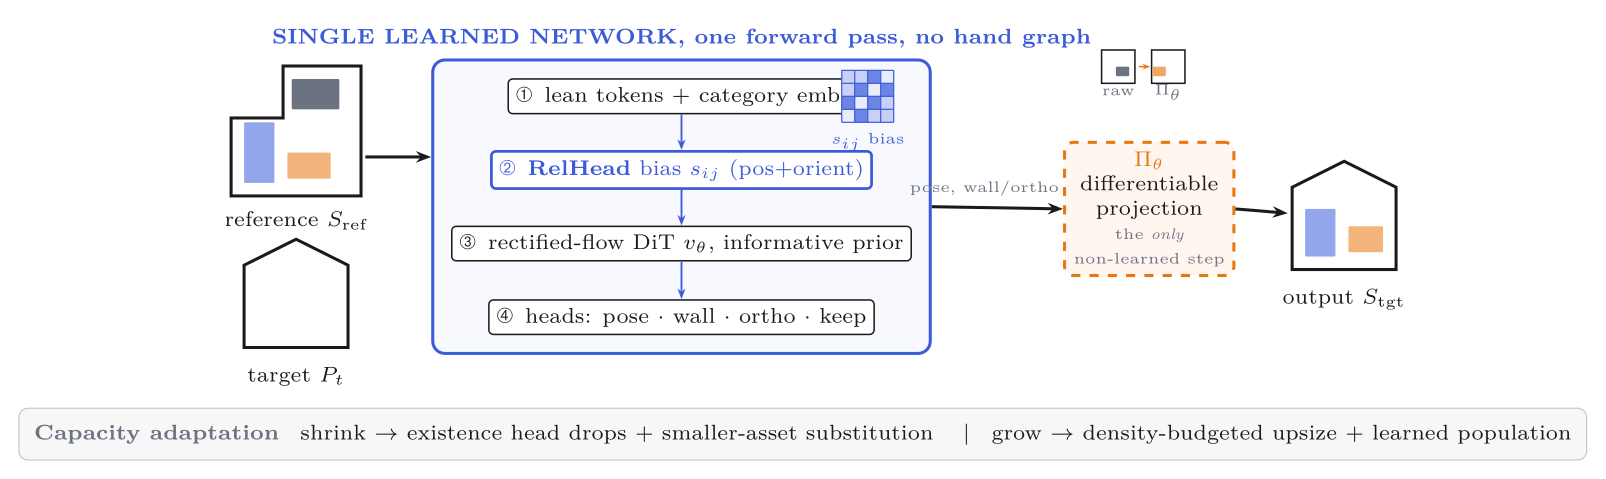
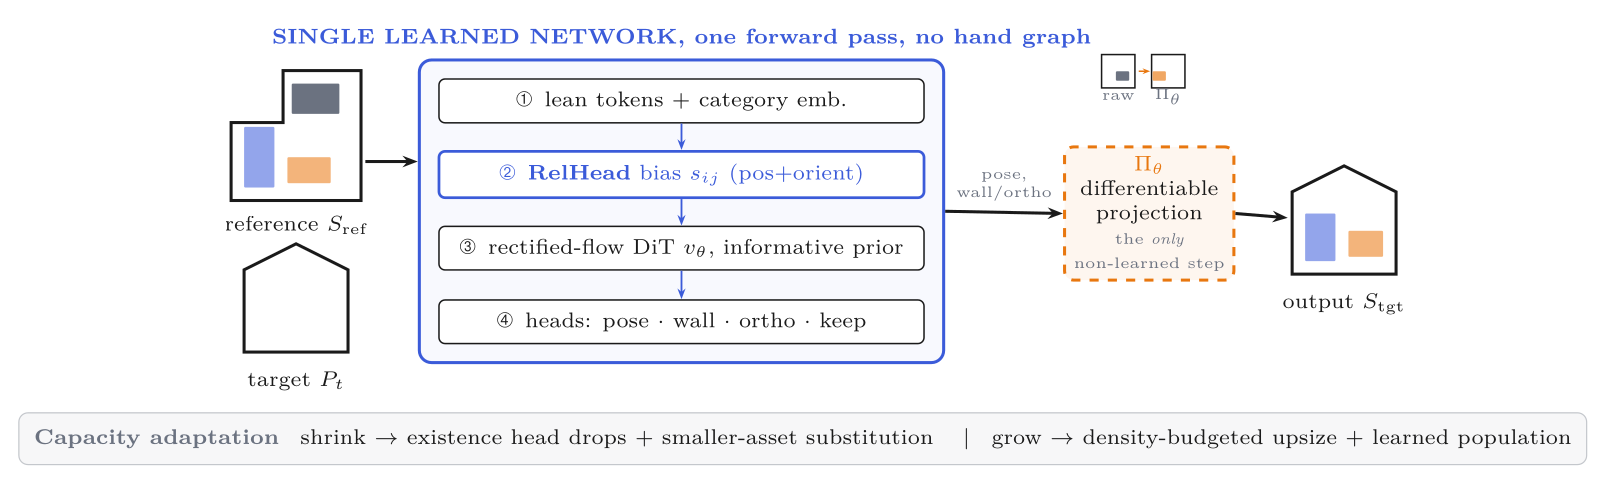
Fix overview figure text fit: uniform padded step boxes, no heatmap overlap
Give the four step boxes a uniform width and larger inner padding so no label
touches its box edge; remove the s_ij heatmap inset that was overrunning step 1's
text; stack the network->projection flow label onto two lines so it clears both
boxes. Regenerate the embedded PNG.

diff --git a/figures/fig_overview.tex b/figures/fig_overview.tex
@@ -9,7 +9,7 @@
 \tikzset{
   lbl/.style   ={font=\scriptsize,text=ink},
   slbl/.style  ={font=\tiny,text=mut},
-  stp/.style   ={draw=ink,line width=.5pt,rounded corners=1.5pt,fill=white,align=center,font=\scriptsize,inner sep=2.5pt,text=ink},
+  stp/.style   ={draw=ink,line width=.5pt,rounded corners=2pt,fill=white,align=center,font=\scriptsize,inner sep=4pt,text=ink,minimum width=56mm},
   netbox/.style={draw=net,line width=1pt,rounded corners=4pt,fill=net!4},
   prjbox/.style={draw=prj,line width=1pt,dashed,rounded corners=3pt,fill=prj!7,align=center,font=\scriptsize,text=ink,inner sep=3pt},
   main/.style  ={-{Stealth[length=5pt]},line width=1pt,ink},
@@ -27,21 +27,13 @@
 \node[lbl,below] at (0.75,-1.65) {target $P_t$};
 % 2. LEARNED NETWORK
 \def\nx{5.2}
-\node[stp,minimum width=30mm] (s1) at (\nx,1.35) {\ding{192}\, lean tokens $+$ category emb.};
-\node[stp,text=net,draw=net,line width=.9pt,minimum width=30mm] (s2) at (\nx,0.5) {\ding{193}\, \textbf{RelHead} bias $s_{ij}$ (pos$+$orient)};
-\node[stp,minimum width=30mm] (s3) at (\nx,-0.35) {\ding{194}\, rectified-flow DiT $v_\theta$, informative prior};
-\node[stp,minimum width=30mm] (s4) at (\nx,-1.2) {\ding{195}\, heads: pose $\cdot$ wall $\cdot$ ortho $\cdot$ keep};
+\node[stp] (s1) at (\nx,1.35) {\ding{192}\, lean tokens $+$ category emb.};
+\node[stp,text=net,draw=net,line width=.9pt] (s2) at (\nx,0.5) {\ding{193}\, \textbf{RelHead} bias $s_{ij}$ (pos$+$orient)};
+\node[stp] (s3) at (\nx,-0.35) {\ding{194}\, rectified-flow DiT $v_\theta$, informative prior};
+\node[stp] (s4) at (\nx,-1.2) {\ding{195}\, heads: pose $\cdot$ wall $\cdot$ ortho $\cdot$ keep};
 \draw[aux] (s1)--(s2); \draw[aux] (s2)--(s3); \draw[aux] (s3)--(s4);
-\node (hm) at (7.35,1.35) {};
-\begin{scope}[shift={(7.05,1.05)},scale=0.15]
-  \foreach \i in {0,1,2,3}\foreach \j in {0,1,2,3}{
-    \pgfmathsetmacro\v{abs(\i-\j)==1 ? 75 : (\i==\j?12:28)}
-    \fill[net!\v] (\i,\j) rectangle ++(1,1);}
-  \draw[net,line width=.4pt] (0,0) grid (4,4);
-\end{scope}
-\node[slbl,text=net] at (7.35,0.82) {$s_{ij}$ bias};
 \begin{scope}[on background layer]
-  \node[netbox,fit=(s1)(s2)(s3)(s4)(hm),inner sep=6pt,label={[net,font=\scriptsize\bfseries]above:SINGLE LEARNED NETWORK, one forward pass, no hand graph}] (net) {};
+  \node[netbox,fit=(s1)(s2)(s3)(s4),inner sep=6pt,label={[net,font=\scriptsize\bfseries]above:SINGLE LEARNED NETWORK, one forward pass, no hand graph}] (net) {};
 \end{scope}
 % 3. Pi_theta
 \node[prjbox,minimum width=18mm] (pi) at (10.6,0.05) {\textbf{\textcolor{prj}{$\Pi_\theta$}}\\ differentiable\\ projection\\ {\tiny\color{mut} the \emph{only}}\\ {\tiny\color{mut} non-learned step}};
@@ -58,7 +50,7 @@
 \node[lbl,below] at (12.85,-0.75) {output $S_\text{tgt}$};
 % arrows
 \draw[main] (1.55,0.65) -- (net.west|-{(0,0.65)});
-\draw[main] (net.east) -- (pi.west) node[pos=0.4,above,slbl]{pose, wall/ortho};
+\draw[main] (net.east) -- (pi.west) node[pos=0.5,above,slbl,align=center]{pose,\\wall/ortho};
 \draw[main] (pi.east) -- (12.2,0.0);
 % capacity
 \node[draw=mut!40,fill=mut!6,rounded corners=3pt,align=center,font=\scriptsize,inner sep=5pt,text=ink,minimum width=134mm] (cap) at (6.6,-2.55) {\textbf{\textcolor{mut}{Capacity adaptation}}\quad shrink $\to$ existence head drops $+$ smaller-asset substitution \quad$\vert$\quad grow $\to$ density-budgeted upsize $+$ learned population};
